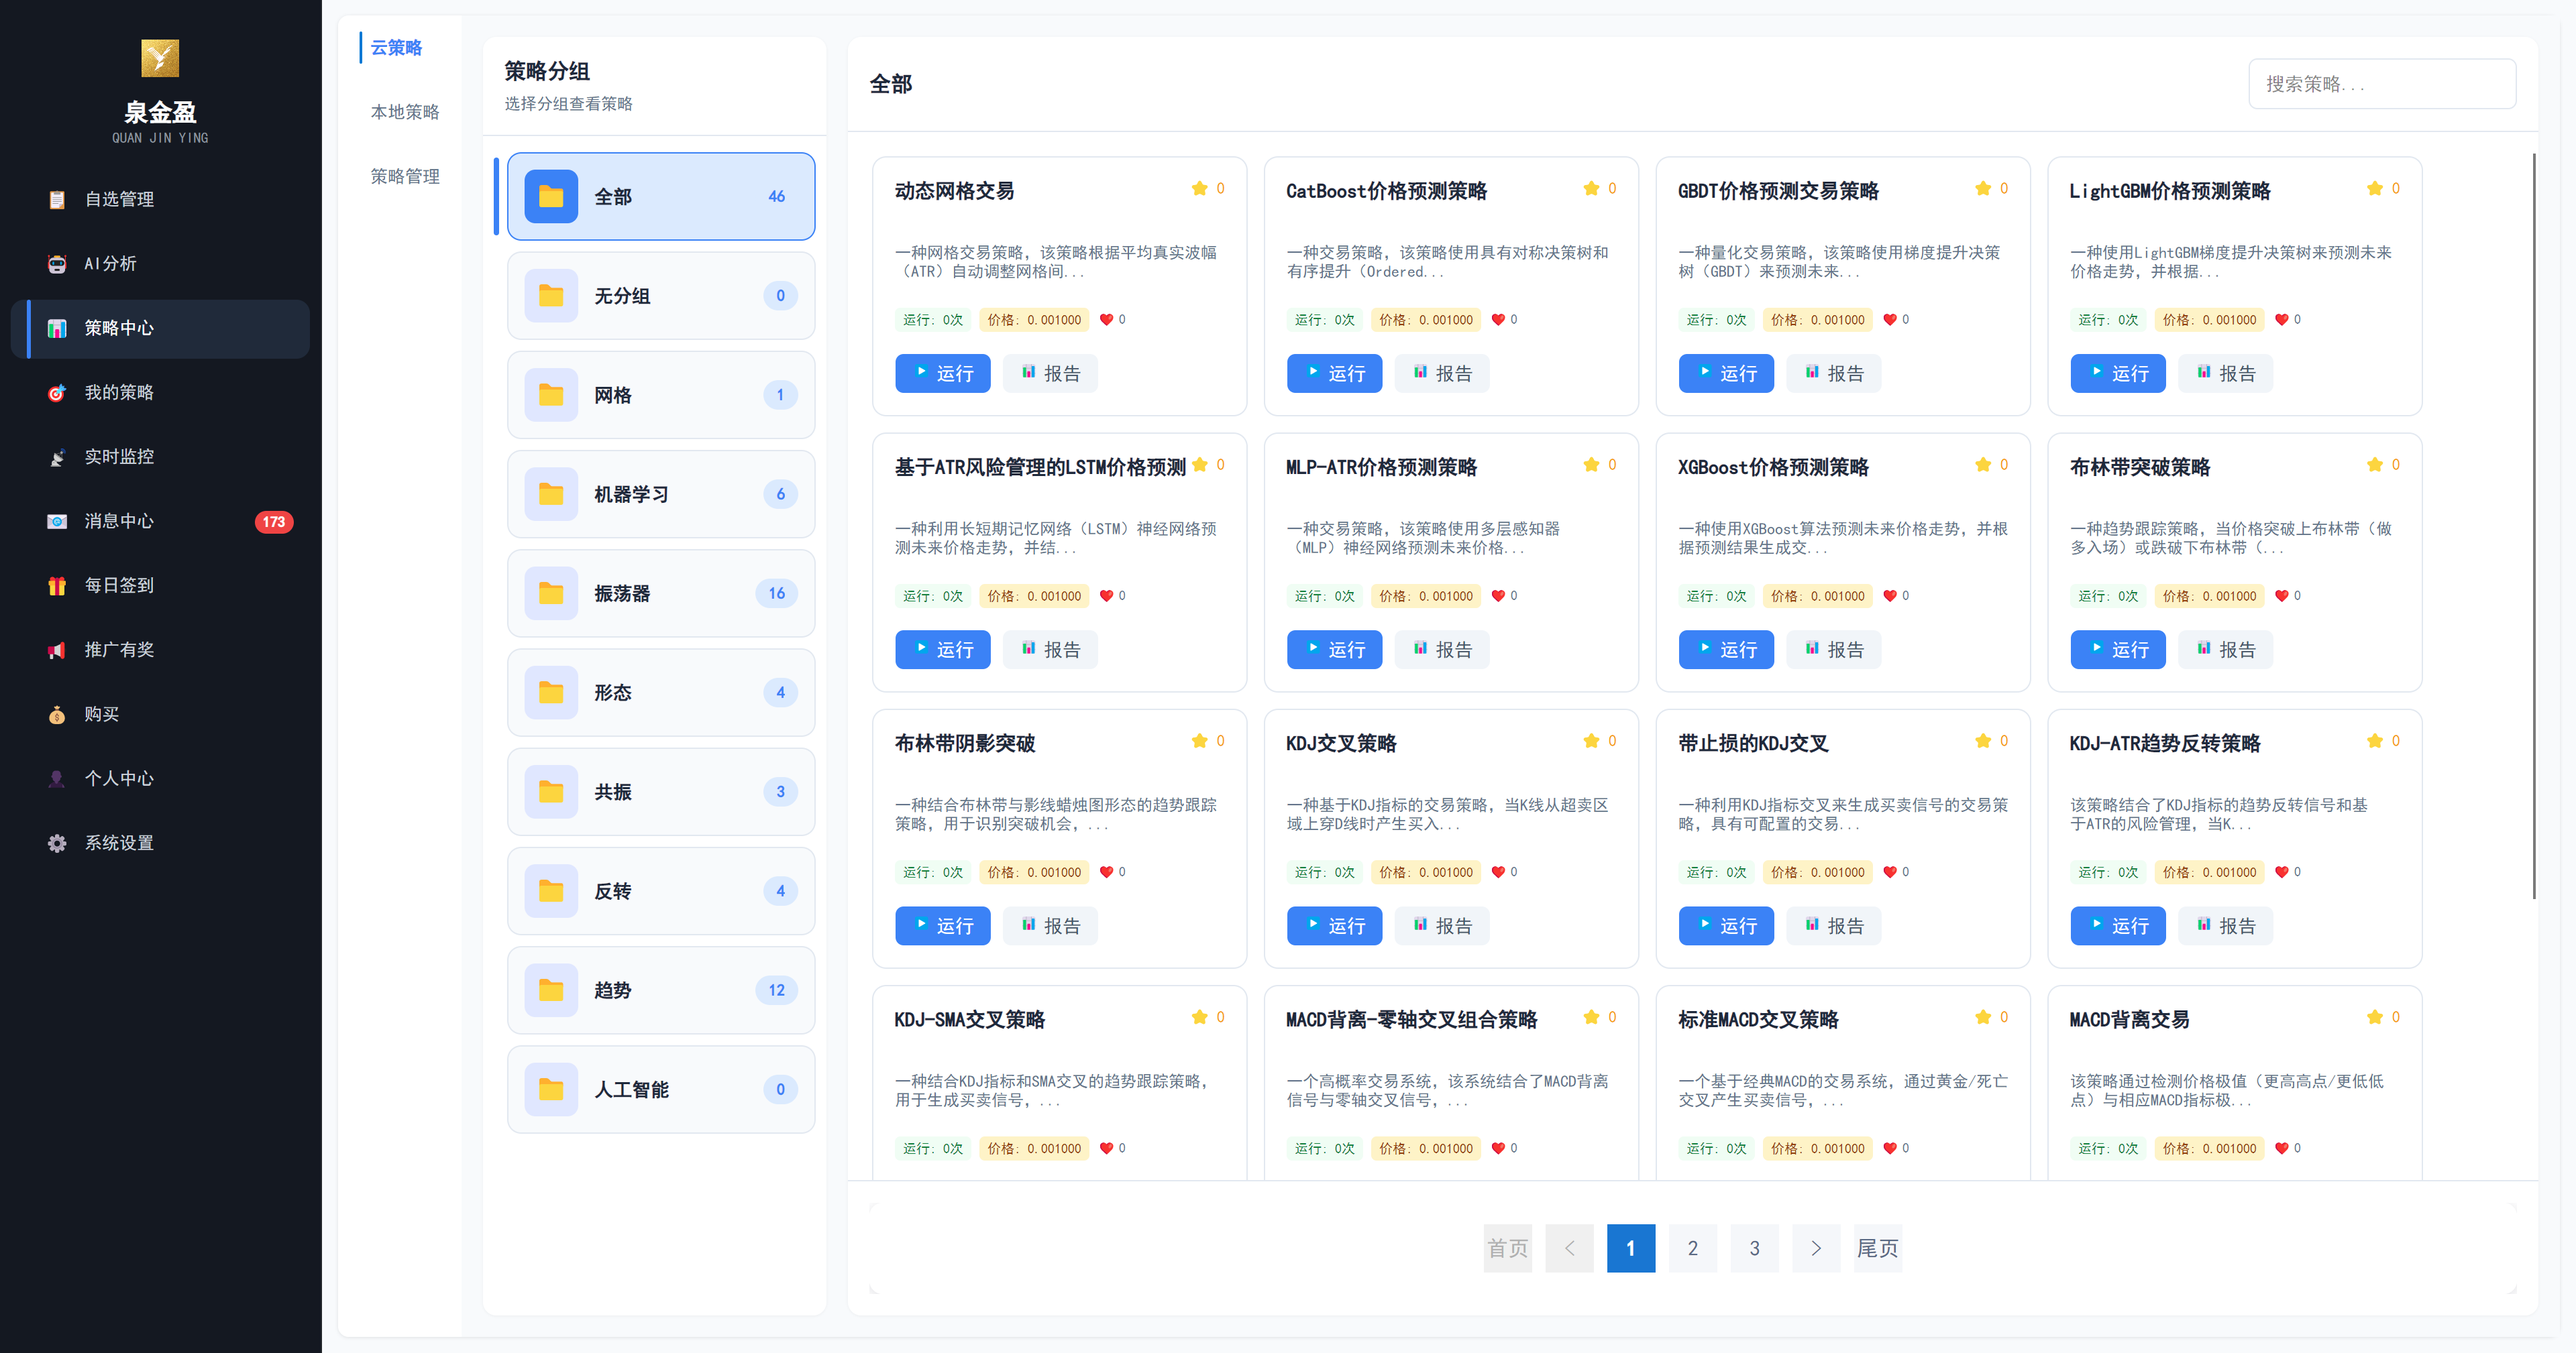
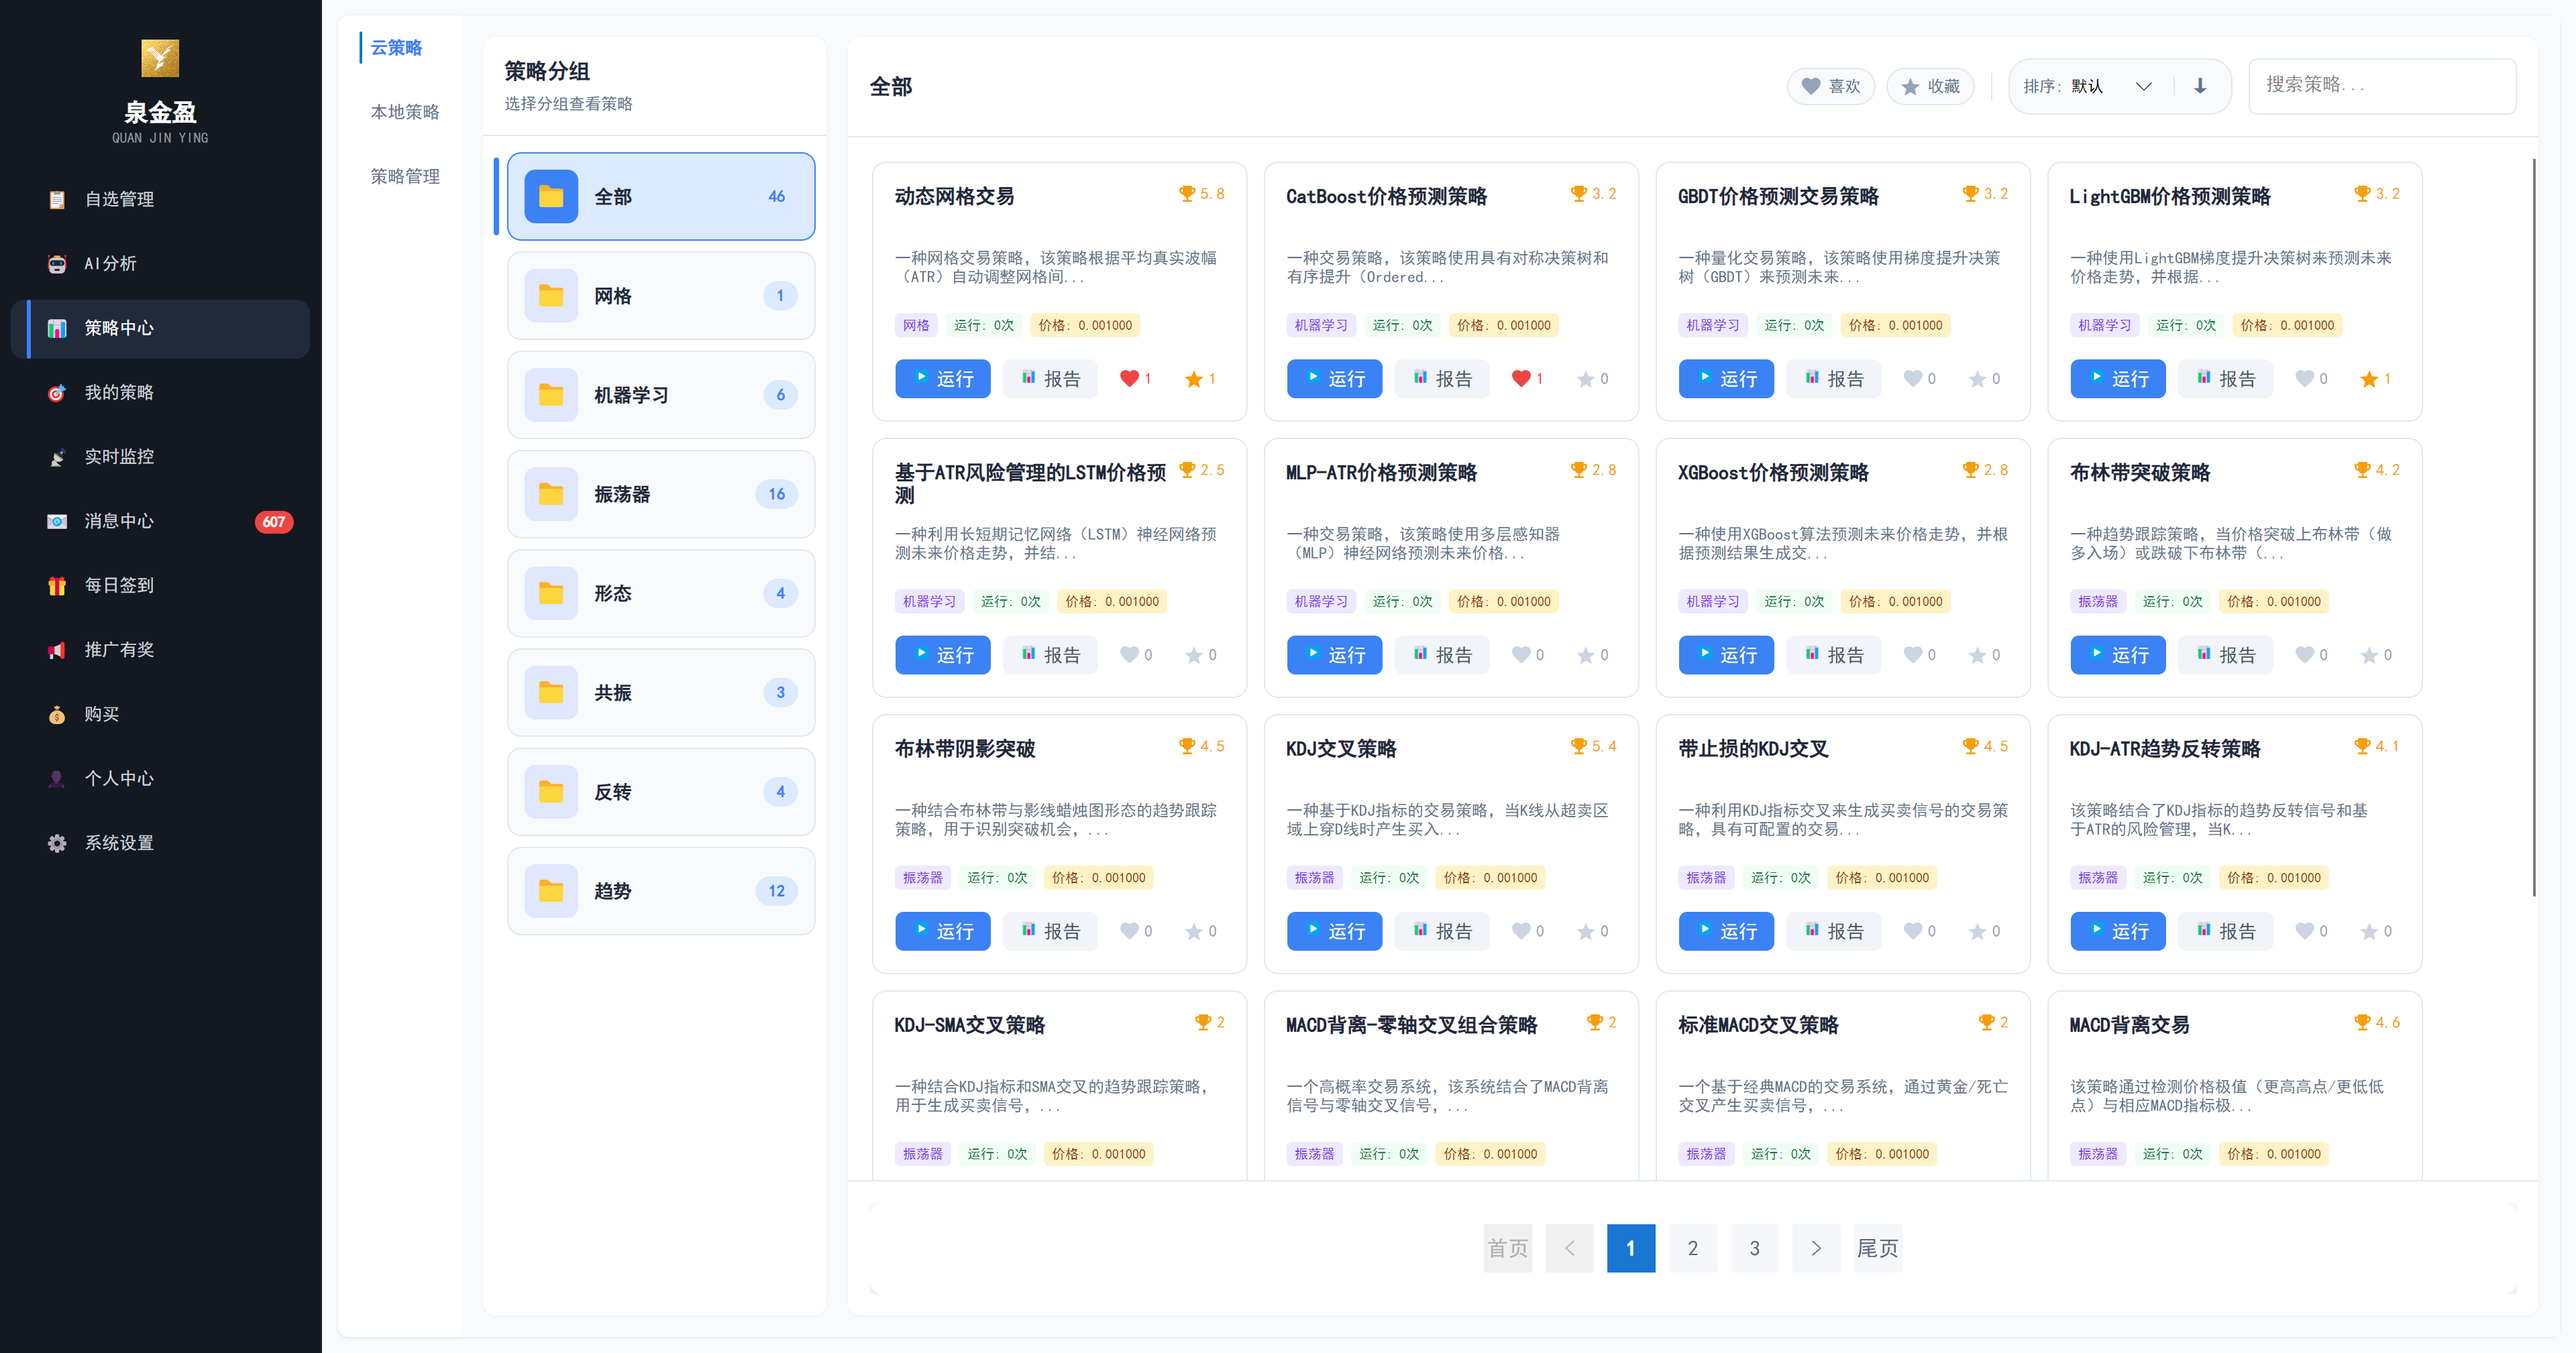
update images

diff --git a/README.md b/README.md
@@ -176,16 +176,18 @@
 
 ## 快速开始
 
-### 1. 创建项目
+### 1. 克隆仓库
 
 ```bash
-dotnet new console -n MyStrategy
-cd MyStrategy
+git clone https://github.com/lld1995/QjySDK.git
+cd QjySDK
 ```
 
-### 2. 添加 SDK 引用
+### 2. 还原依赖
 
-将泉金盈策略开发 SDK 项目添加至您的解决方案，或引用编译后的 DLL。
+```bash
+dotnet restore
+```
 
 ### 3. 编写策略
 
